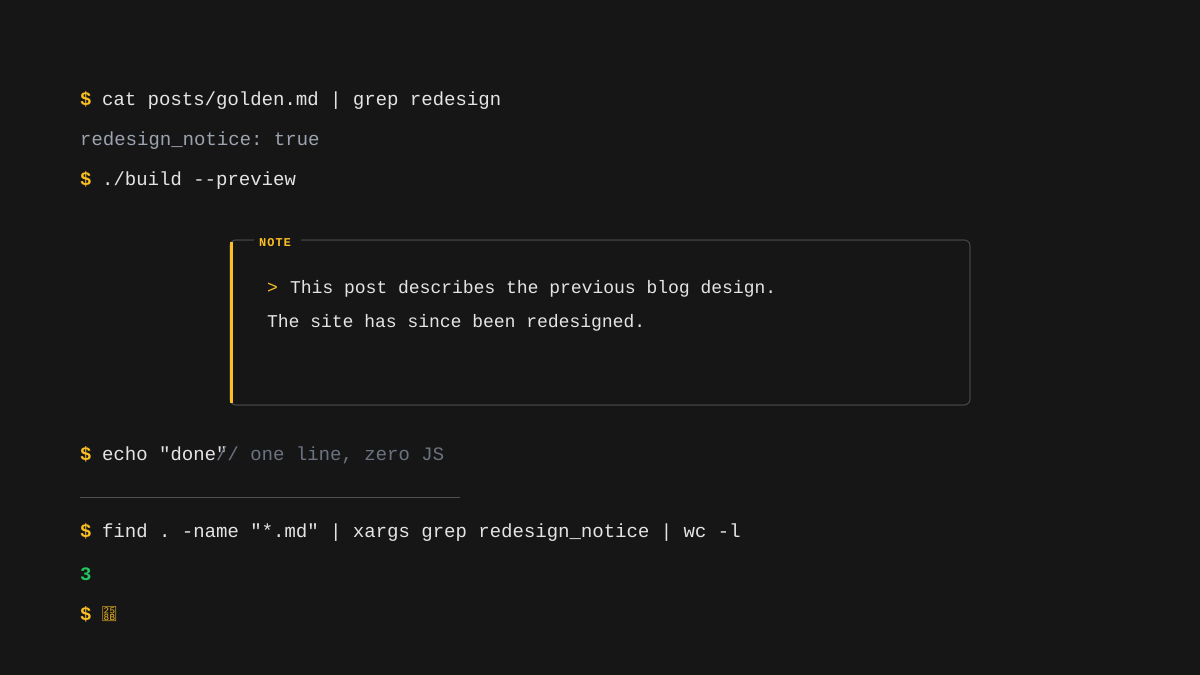
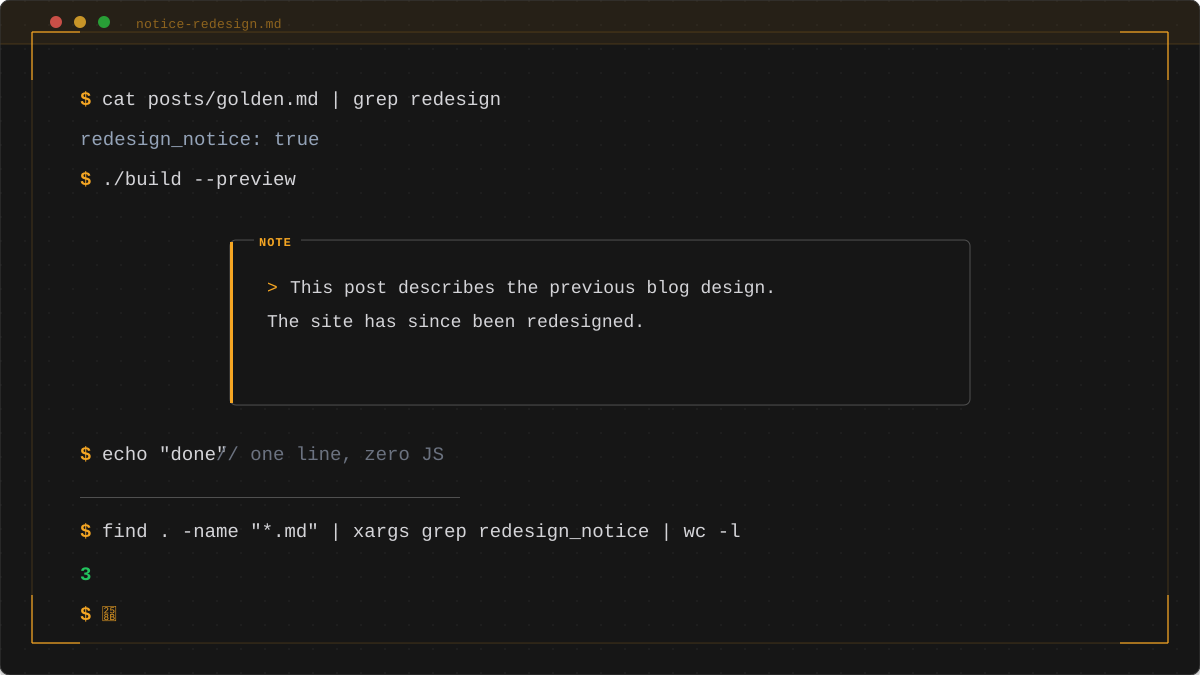
Consolidate SVGs: terminal-window frame for building-conditional-notice, rename 2 OG files to match post slugs

diff --git a/content/posts/responsive-tables-semantic-overflow.md b/content/posts/responsive-tables-semantic-overflow.md
@@ -4,10 +4,10 @@ description: "Tables overflow on mobile. The fix is simple, but most implementat
 date: 2026-06-25
 draft: true
 tags: [css, html, accessibility, howto]
-image: /assets/img/og/responsive-tables-hero.png
+image: /assets/img/og/responsive-tables-semantic-overflow.png
 ---
 
-![A split illustration: left side shows a table overflowing a phone screen with a red "cut off" indicator, right side shows the same table contained within a scrollable wrapper](/assets/img/responsive-tables-hero.svg)
+![A split illustration: left side shows a table overflowing a phone screen with a red "cut off" indicator, right side shows the same table contained within a scrollable wrapper](/assets/img/responsive-tables-semantic-overflow.svg)
 
 *A responsive table should never clip its content. The fix: a wrapper div with horizontal scroll, not a hack on the table itself.*
 

diff --git a/content/posts/scroll-aware-toc-intersection-observer.md b/content/posts/scroll-aware-toc-intersection-observer.md
@@ -4,10 +4,10 @@ description: "A scroll-aware table of contents that highlights the current secti
 date: 2026-06-25
 draft: true
 tags: [javascript, css, ux, howto]
-image: /assets/img/og/toc-active-hero.png
+image: /assets/img/og/scroll-aware-toc-intersection-observer.png
 ---
 
-![An illustration showing a blog article with a table of contents: one item highlighted in amber with a left border accent, representing the active reading position](/assets/img/toc-active-hero.svg)
+![An illustration showing a blog article with a table of contents: one item highlighted in amber with a left border accent, representing the active reading position](/assets/img/scroll-aware-toc-intersection-observer.svg)
 
 *A table of contents that highlights your current section as you scroll. No scroll event listeners required.*
 
